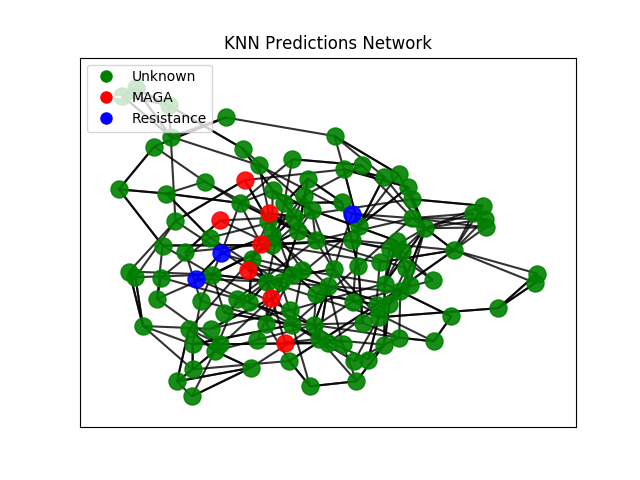
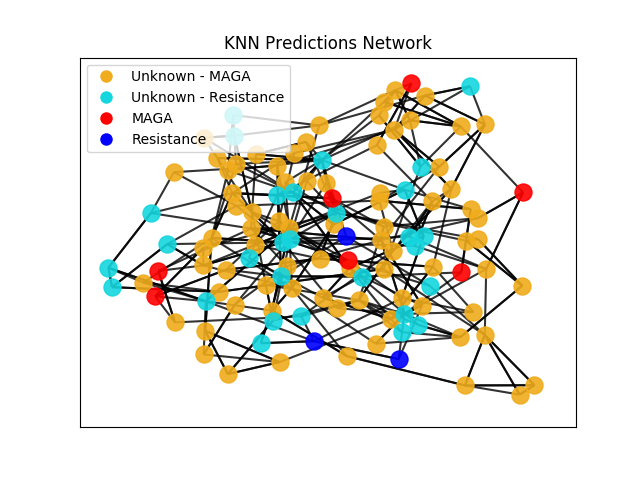
adding color to new class

Changed region(s): [[0.1562, 0.125, 0.875, 0.8438]]

diff --git a/app/lib/graph_network.py b/app/lib/graph_network.py
@@ -52,8 +52,15 @@ class GraphNetwork(object):
         nx.draw_networkx_nodes(
             g,
             pos,
-            nodelist=[i for i, x in enumerate(self.user_df['class'].tolist()) if x == 'U'],
-            node_color='g',
+            nodelist=[i for i, x in enumerate(self.user_df['class'].tolist()) if (x == 'U' and self.preds[i] == 'M')],
+            node_color='#F0AC1C',
+            node_size=150,
+            alpha=0.9)
+        nx.draw_networkx_nodes(
+            g,
+            pos,
+            nodelist=[i for i, x in enumerate(self.user_df['class'].tolist()) if (x == 'U' and self.preds[i] == 'R')],
+            node_color='#15D6DF',
             node_size=150,
             alpha=0.9)
         nx.draw_networkx_nodes(
@@ -76,7 +83,8 @@ class GraphNetwork(object):
         # Plot neatness
         plt.title('KNN Predictions Network')
         legend_elements = [
-            Line2D([0], [0], marker='o', color='w', label='Unknown', markerfacecolor='g', markersize=10),
+            Line2D([0], [0], marker='o', color='w', label='Unknown - MAGA', markerfacecolor='#F0AC1C', markersize=10),
+            Line2D([0], [0], marker='o', color='w', label='Unknown - Resistance', markerfacecolor='#15D6DF', markersize=10),
             Line2D([0], [0], marker='o', color='w', label='MAGA', markerfacecolor='r', markersize=10),
             Line2D([0], [0], marker='o', color='w', label='Resistance', markerfacecolor='blue', markersize=10)
         ]
